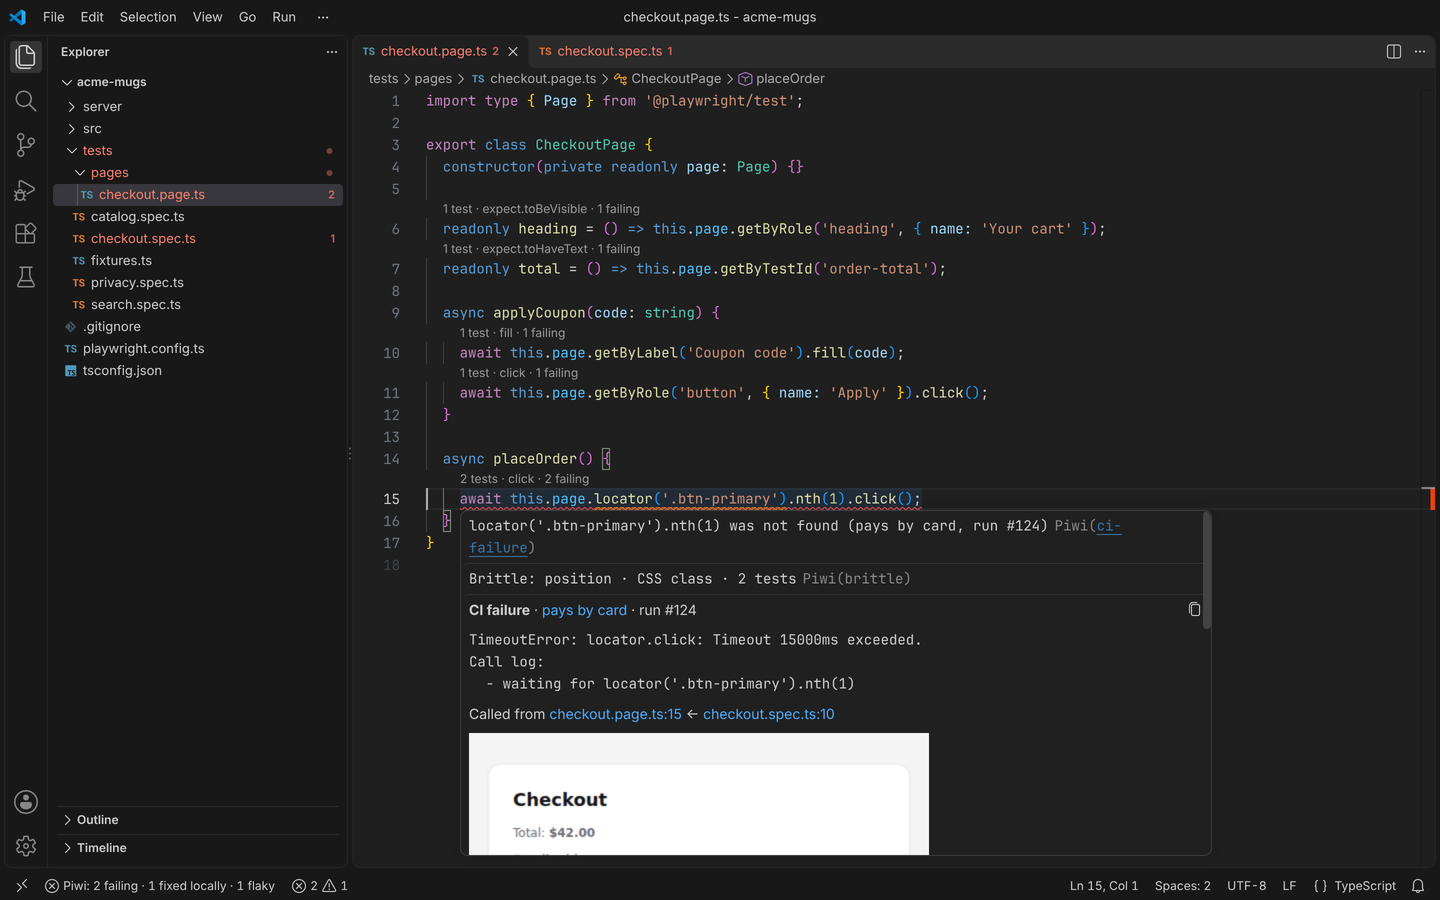
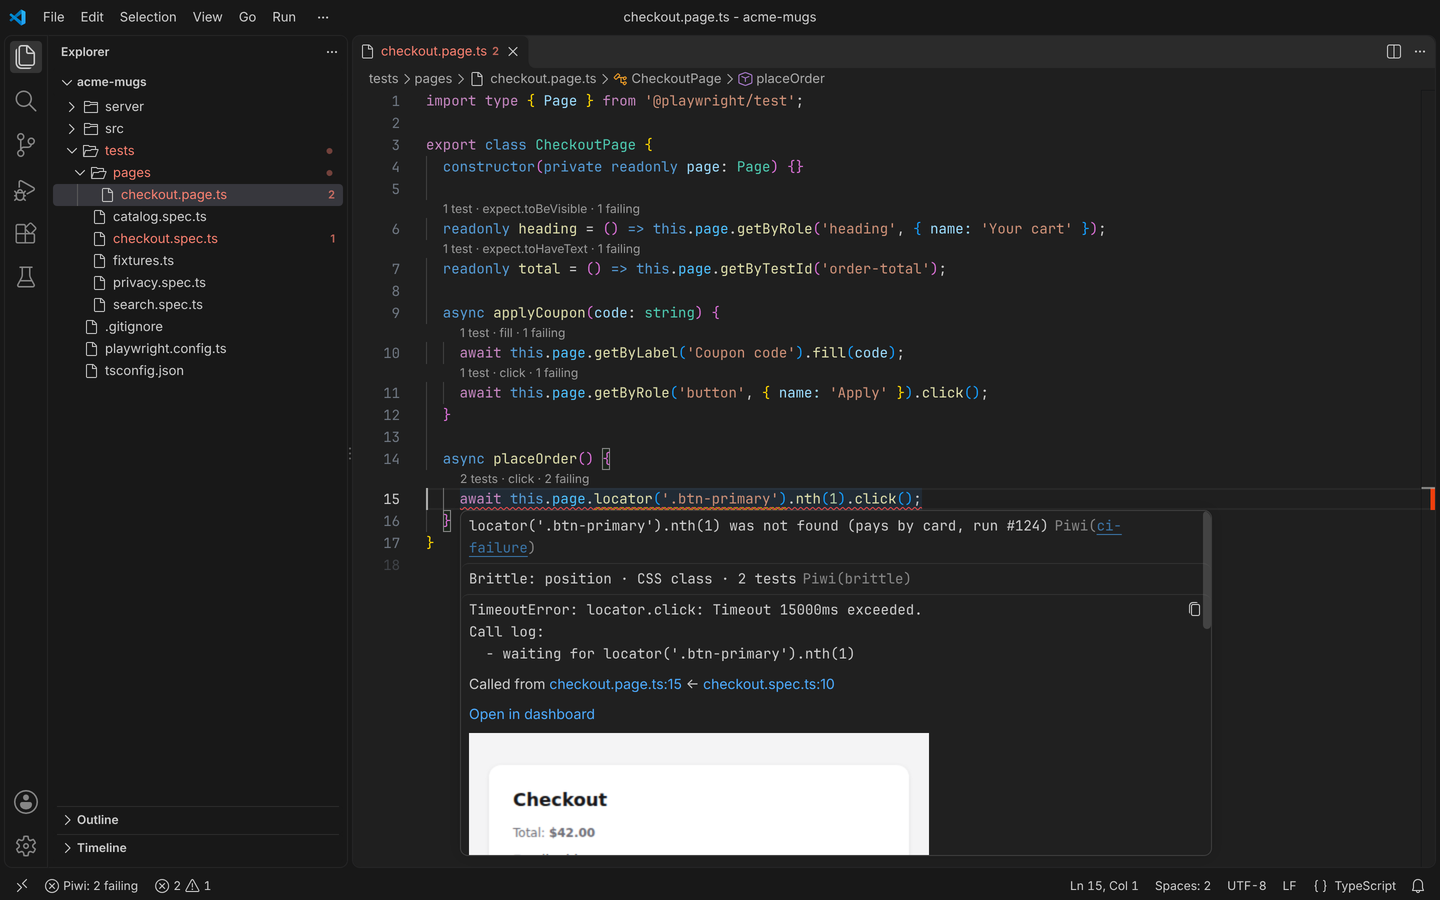
fix(ide): say a failure once in its line's hover, whichever URI form the editor sends
The hover looked up the line's failure diagnostics by the exact URI string the
client sent, while the service keys them by `pathToFileURL`. An editor that
spells the URI otherwise (`file:///c%3A/…` on Windows) missed them, so the
hover repeated the headline the diagnostic already shows above it. It now
matches them by path.

On a line its diagnostic is on, the hover no longer leads with what failed and
in which run, which the diagnostic says: it gives the error, the call chain and
the known issues, the failure's page (Open in dashboard), then the screenshot,
which a hover shows past its first screen.

Claude-Session: https://claude.ai/code/session_018v8tRaQtVj1iKRngQiVQsW

diff --git a/packages/editor/tests/lsp.test.ts b/packages/editor/tests/lsp.test.ts
@@ -1045,7 +1045,10 @@ describe('the Piwi language server', () => {
       textDocument: { uri: uri('tests/pages/checkout.page.ts') },
       position: { line: 4, character: 30 },
     })) as { contents: { value: string } };
-    expect(hover.contents.value).toContain(`**CI failure** · [removes a row](${url}/test-run-cases/900) · run #41`);
+    // The diagnostic on this line says what failed and why: the hover gives the detail, then the failure's page.
+    expect(hover.contents.value).not.toContain('**CI failure**');
+    expect(hover.contents.value).toMatch(/^```text\nError: locator\.click: Timeout 5000ms exceeded\./);
+    expect(hover.contents.value).toContain(`\n\n[Open in dashboard](${url}/test-run-cases/900)`);
     expect(hover.contents.value).toMatch(/!\[Failure screenshot\]\(file:\/\/.*900\.png\)/);
     expect(hover.contents.value).toContain(
       'Known issue: [SHOP-12 Cart rows missing](https://jira.test/browse/SHOP-12) · In Progress',
@@ -2257,7 +2260,16 @@ describe('local runs over the latest CI run', () => {
         textDocument: { uri: uri('tests/pages/checkout.page.ts') },
         position: { line: 3, character: 30 },
       })) as { contents: { value: string } };
-      expect(hover.contents.value).toContain(`**Local failure** · [pays](${url}/test-run-cases/950) · local run #42`);
+      expect(hover.contents.value).not.toContain('**Local failure**');
+      expect(hover.contents.value).not.toContain("\n\ngetByRole('button', { name: 'Pay now' }) was not visible\n\n");
+      expect(hover.contents.value).toContain(`[Open in dashboard](${url}/test-run-cases/950)`);
+      // The client may spell the file's URI otherwise (`file:///c%3A/…` on Windows): the diagnostic is still this line's.
+      const spelled = uri('tests/pages/checkout.page.ts').replace('/checkout.page.ts', '/%63heckout.page.ts');
+      const otherwise = (await client.sendRequest('textDocument/hover', {
+        textDocument: { uri: spelled },
+        position: { line: 3, character: 30 },
+      })) as { contents: { value: string } };
+      expect(otherwise.contents.value).toBe(hover.contents.value);
 
       const rows = (await client.sendRequest('piwi/fileSummary', { uri: uri('tests/rows.spec.ts') })) as FileSummary;
       const fixed = rows.lines.find((l) => l.status !== undefined)!;
@@ -2426,9 +2438,7 @@ describe('failures follow the edits', () => {
       textDocument: { uri: uri(page) },
       position: { line: 4, character: 30 },
     })) as { contents: { value: string } };
-    expect(hover.contents.value).toContain(
-      `**CI failure** · [removes a row](${url}/test-run-cases/900) · run #41 · edited since run #41`,
-    );
+    expect(hover.contents.value).toContain(`[Open in dashboard](${url}/test-run-cases/900)`);
     // The diagnostic shows the headline: the hover gives the error's detail alone.
     expect(hover.contents.value).not.toContain("\n\nlocator('.cart-row').nth(2) was not found\n");
     expect(hover.contents.value).toContain('Timeout 5000ms exceeded');
@@ -3826,9 +3836,7 @@ describe('the baseline chosen in the editor', () => {
       textDocument: { uri: uri('tests/pages/checkout.page.ts') },
       position: { line: 4, character: 30 },
     })) as { contents: { value: string } };
-    expect(hover.contents.value).toContain(
-      `**Local failure** · [removes a row](${url}/test-run-cases/1190) · local run #119`,
-    );
+    expect(hover.contents.value).toContain(`[Open in dashboard](${url}/test-run-cases/1190)`);
   });
 
   test('the ladder reads the checked-out branch, as without a choice', async () => {

diff --git a/packages/editor/src/server.ts b/packages/editor/src/server.ts
@@ -3233,12 +3233,18 @@ export function startServer(connection: Connection, options: ServerOptions = {})
   connection.onHover(async (params, token): Promise<Hover | null> => {
     const file = uriToPath(params.textDocument.uri);
     const found = new Map<number, { context: PiwiContext; failure: BranchFailure }>();
-    for (const d of failureDiagnostics.get(params.textDocument.uri) ?? []) {
+    // The file's diagnostics, whichever form of its URI the client sent (`file:///c%3A/…` on Windows).
+    const published = [...failureDiagnostics].flatMap(([uri, list]) => {
+      const at = uriToPath(uri);
+      return file && at && samePath(at, file) ? list : [];
+    });
+    for (const d of published) {
       if (d.range.start.line !== params.position.line) continue;
       const hit = failureOf(d.data as FailureData);
       if (hit) found.set(hit.failure.executionId, hit);
     }
-    // These failures' diagnostics, on this line, say their headline beside the hover.
+    // These failures' diagnostics, on this line, say what failed, in which run and why, beside the hover: the hover
+    // gives the error's detail, then the failure's page.
     const diagnosedHere = new Set(found.keys());
     // A line of the failing call chain (the test's own line calling a page object) shows the failure too.
     const context = file ? contextFor(file) : null;
@@ -3275,16 +3281,25 @@ export function startServer(connection: Connection, options: ServerOptions = {})
           (frame) => `[${path.basename(frame.file)}:${frame.line}](${pathToFileURL(frame.file).href}#L${frame.line})`,
         );
       const run = runLabel(context, failure);
+      const title = failure.title.replace(/[[\]]/g, '');
+      const url = context.client?.executionUrl(failure.executionId) ?? '';
+      const diagnosed = diagnosedHere.has(failure.executionId);
+      // Several failures on one line: each part names its test.
+      const named = diagnosed && found.size > 1 ? `${title} · ${run}` : '';
       parts.push(
         [
-          `**${isLocalFailure(context, failure) ? 'Local failure' : 'CI failure'}** · [${failure.title.replace(/[[\]]/g, '')}](${context.client?.executionUrl(failure.executionId) ?? ''}) · ${run}${at?.state === 'edited' ? ` · edited since ${run}` : ''}`,
-          diagnosedHere.has(failure.executionId) ? '' : (failure.headline ?? ''),
+          diagnosed
+            ? ''
+            : `**${isLocalFailure(context, failure) ? 'Local failure' : 'CI failure'}** · [${title}](${url}) · ${run}${at?.state === 'edited' ? ` · edited since ${run}` : ''}`,
+          diagnosed ? '' : (failure.headline ?? ''),
           message && message !== failure.headline ? fenced(message) : '',
           chain.length > 1 ? `Called from ${chain.join(' ← ')}` : '',
           ...issues.map(
             (l) =>
               `Known issue: [${[l.key, l.title].filter(Boolean).join(' ').replace(/[[\]]/g, '') || l.url}](${l.url})${l.statusText ? ` · ${l.statusText}` : ''}`,
           ),
+          // Above the screenshot, which a hover shows past its first screen.
+          diagnosed ? [url ? `[Open in dashboard](${url})` : '', named].filter(Boolean).join(' · ') : '',
           shot ? `![Failure screenshot](${pathToFileURL(shot).href})` : '',
         ]
           .filter(Boolean)

diff --git a/packages/editor/ARCHITECTURE.md b/packages/editor/ARCHITECTURE.md
@@ -415,7 +415,8 @@ The diff starts from the files as the run saw them:
   repository lacks, and a CI run until its commit's file is read.
 
 Every failure has the code `ci-failure`, which D25 freezes; a failure of a developer's own run says so first in its
-message (`Local failure: …`, `Local failure, edited since your run #42: …`), as its hover does.
+message (`Local failure: …`, `Local failure, edited since your run #42: …`), as its hover does on a line no
+diagnostic of the failure is on.
 
 A failure whose line changed since its run:
 
@@ -426,9 +427,12 @@ A failure whose line changed since its run:
 
 The line above a failing line says `✗ Failed here`, and the headline after it only where no diagnostic on that line
 gives it (`TestFailure.diagnosed`: the diagnostic of the test's failure on any project is on that line, and
-`failureSeverity` is not `off`). The hover leaves out the headline of a failure whose diagnostic is on the hovered line,
-and gives it for every other failure of the call chain; VS Code's Testing view leaves it out of the failure's message
-the same way. VS Code asks for the lenses again as it hands new credentials.
+`failureSeverity` is not `off`). The hover of a failure whose diagnostic is on the hovered line gives its error, call
+chain and known issues, the failure's page (`Open in dashboard`, with the test and the run when several failures share
+the line), then its screenshot: the diagnostic beside it says what failed, in which run and why. It finds that diagnostic
+whichever form of the file's URI the client sent (`file:///c%3A/…` on Windows). Every other failure of the call chain
+leads with what failed, the run and the headline. VS Code's Testing view leaves the headline out of the failure's
+message the same way. VS Code asks for the lenses again as it hands new credentials.
 
 A failure whose test left its spec publishes nothing: its `test(…)` call was in the spec the run saw, and is not in the
 spec as it stands.

diff --git a/apps/docs/features/editor-failures.md b/apps/docs/features/editor-failures.md
@@ -36,8 +36,8 @@ are on the failure's node in the [failures view](#the-failures-view), and runnin
   [fix plan](/features/fix-plans) whose patch applies to your files: the edit is previewed, then the plan's verify
   command runs in a terminal.
 
-Hover for the error message, its call chain, the failure screenshot, and the tickets linked to its cluster or
-test. **File an issue**, on the failure's node, opens its cluster in the dashboard to file one, or names the ticket
+Hover for the error message, its call chain, the failure screenshot, the tickets linked to its cluster or test, and a
+link to the failure in the dashboard; the error marker's own text above them says what failed and in which run. **File an issue**, on the failure's node, opens its cluster in the dashboard to file one, or names the ticket
 already linked.
 
 <figure>
